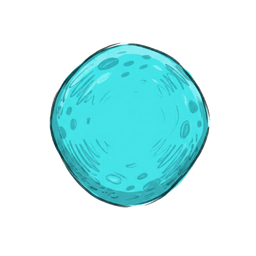
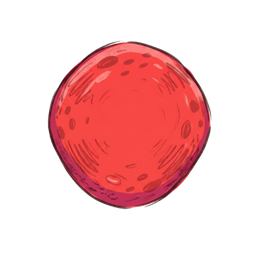
Add files via upload

diff --git a/index.html b/index.html
@@ -3,7 +3,7 @@
 <head>
     <meta charset="UTF-8">
     <meta name="viewport" content="width=device-width, initial-scale=1.0">
-    <title>Snake Arena</title>
+    <title>Survive The Snake</title>
     <link rel="preconnect" href="https://fonts.googleapis.com">
     <link rel="preconnect" href="https://fonts.gstatic.com" crossorigin>
     <link href="https://fonts.googleapis.com/css2?family=Caveat:wght@400..700&family=Patrick+Hand&display=swap" rel="stylesheet">
@@ -15,6 +15,7 @@
             <div class="menu-content">
                 <div class="menu-actions">
                     <button id="play-button" class="menu-button">PLAY AS SNAKE</button>
+                    <button id="warn" class="warn">TRAIN YOUR ENEMY BEFORE PLAYING!</button>
                     <button id="train-button" class="menu-button">TRAIN ENEMY AI</button>
                     <button id="watch-button" class="menu-button">WATCH ENEMY AI</button>
                 </div>
@@ -31,7 +32,7 @@
 
             <div id="pause-overlay">
                 <div>PAUSED</div>
-                <small>PRESS ESC TO RESUME</small>
+                <small>PRESS ESC TO CONTINUE PLAYING</small>
             </div>
 
             <div id="game-over-overlay">
@@ -50,7 +51,10 @@
         <section id="training-screen" class="screen">
             <canvas id="training-canvas"></canvas>
             <div id="generation-counter">GENERATION 1</div>
-            <div id="training-exit">PRESS ESC TO RETURN · ENEMY LEARNS TO GROW, HUNT, AND ENCIRCLE</div>
+            <div id="training-exit">PRESS ESC TO RETURN · ENEMY LEARNS HOW TO GROW, HUNT, AND DEFEAT THE PLAYER
+                <br>
+            MADE BY GOKUL
+            </div>
             <div id="watch-message" aria-live="polite"></div>
         </section>
     </main>

diff --git a/style.css b/style.css
@@ -43,7 +43,7 @@ button {
     display: block;
 }
 
-/* Main menu */
+
 
 #menu {
     background-image: url("assets/backgrounds/main_menu.png");
@@ -85,6 +85,24 @@ button {
     color: black;
 }
 
+.warn {
+    border: 1px solid rgba(255, 255, 255, 0.8);
+    background: rgba(0, 0, 0, 0.35);
+    color: white;
+    padding: 14px 28px;
+    font-size: 16px;
+    font-weight: 700;
+    letter-spacing: 1.5px;
+    cursor: pointer;
+    transition: background 0.2s, color 0.2s;
+}
+
+.warn:hover,
+.warn:focus-visible {
+    background: white;
+    color: black;
+}
+
 @keyframes promptPulse {
     0%, 100% {
         opacity: 1;
@@ -95,7 +113,7 @@ button {
     }
 }
 
-/* Game */
+
 
 #game-screen,
 #training-screen {
@@ -122,7 +140,7 @@ canvas {
 }
 
 #game-hud::after {
-    content: "WASD TO MOVE · AVOID THE RED SNAKE";
+    content: "WASD TO MOVE · DEFEAT THE RED SNAKE";
     color: #666;
 }
 
@@ -146,7 +164,7 @@ canvas {
     letter-spacing: 1.5px;
 }
 
-/* Victory / Defeat screen */
+
 
 #game-over-overlay {
     position: absolute;
@@ -202,7 +220,6 @@ canvas {
     gap: 16px;
 }
 
-/* Training */
 
 #training-screen {
     background: white;
@@ -254,3 +271,4 @@ canvas {
         max-height: 200px;
     }
 }
+
